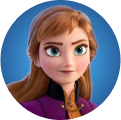
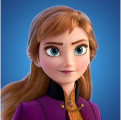
~

diff --git a/index.html b/index.html
@@ -363,9 +363,11 @@
 </style>
 
 <!-- Testimonial Section -->
+<h2 class="testimonial-title">Our Customers Says</h2>
+</div>
     <div class="testimonial">
         <div class="profile-picture">
-            <img src="images/anna.jpg" alt="Tara Arts">
+            <img src="images/anna.png" alt="Tara Arts">
         </div>
         <div class="content">
             <h4>Anna</h4>
@@ -375,7 +377,7 @@
 
     <div class="testimonial">
         <div class="profile-picture">
-            <img src="images/cinta.jpeg" alt="Ruben Amorim">
+            <img src="images/cinta.png" alt="Ruben Amorim">
         </div>
         <div class="content">
             <h4>Cinta Laura</h4>
@@ -395,6 +397,7 @@
             margin-right: 15px;
             width: 100px;  /* Menentukan lebar gambar kotak */
             height: 100px; /* Menentukan tinggi gambar kotak */
+            border-radius: 10%;
             overflow: hidden; /* Menyembunyikan bagian gambar yang keluar jika ada */
         }
     
